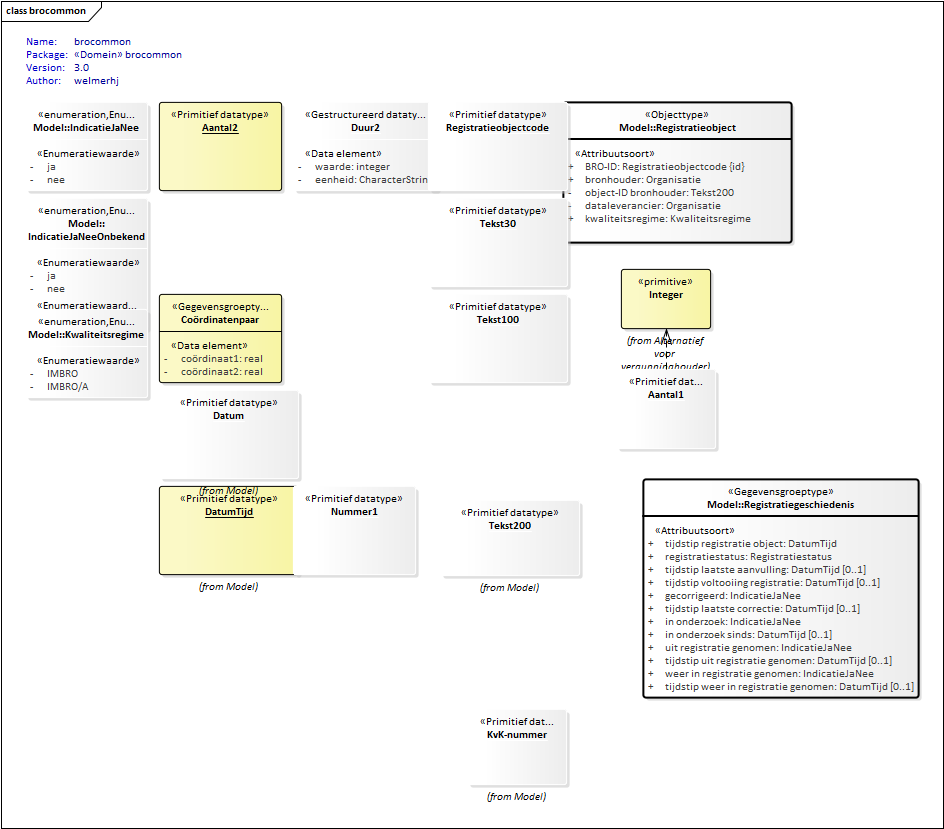
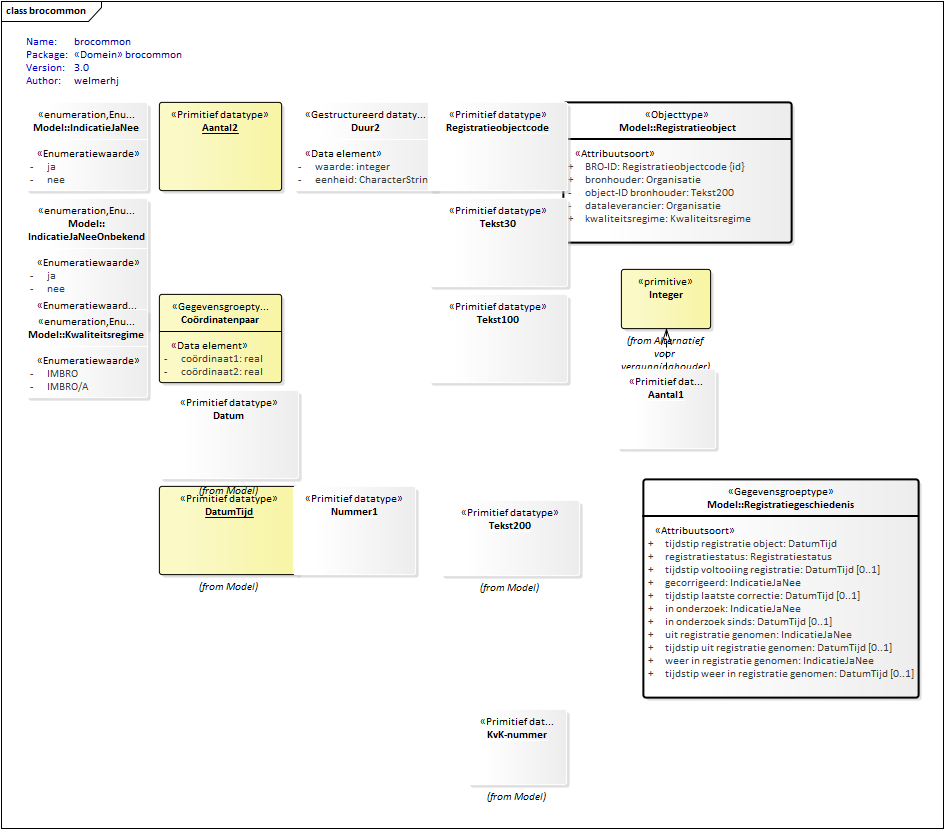
Conceptualmodel-GrondwatersamenstellingsonderzoekGAR-0.1-2-20190214-20190228-145426

Changed region(s): [[0.7066, 0.6634, 0.9831, 0.8444]]

diff --git a/data/GAR-cat.html b/data/GAR-cat.html
@@ -2,7 +2,7 @@
 <section id="cat" class="normative">
    <h2>Catalogus</h2>
    <p><b>Deze tekst is normatief.</b>
-      <!--Conceptualmodel-GrondwatersamenstellingsonderzoekGAR-0.1-2-20190214-20190228-130145 imvertor --></p>
+      <!--Conceptualmodel-GrondwatersamenstellingsonderzoekGAR-0.1-2-20190214-20190228-145426 imvertor --></p>
    <div class="imageinfo overview"><img src="data/Images/EAID_BBDCFEE2_BB5A_4b62_99F2_796C8F526D8F.png" usemap="#imagemap-EAID_BBDCFEE2_BB5A_4b62_99F2_796C8F526D8F"><map name="imagemap-EAID_BBDCFEE2_BB5A_4b62_99F2_796C8F526D8F">
          <area shape="rect" coords="296,963,467,835" alt="" href="#graph_EAID_FEC2B1DD_E5C2_4c90_8B71_B69ADC431AB0">
          <area shape="rect" coords="889,121,1021,58" alt="" href="#graph_EAID_F327F5A5_BFAE_4282_A78C_984A77CF8D47">
@@ -281,20 +281,6 @@
                </tr>
                <tr>
                   <td>- 
-                     <a class="link" href="#detail_attribute_Model_Registratiegeschiedenis_tijdstipLaatsteAanvulling">tijdstip laatste aanvulling</a>
-                     
-                  </td>
-                  <td>De datum en het tijdstip waarop de laatste aanvulling op de gegevens in de registratie
-                     ondergrond is doorgevoerd.
-                  </td>
-                  <td>
-                     <a class="link" href="#global_class_Model_DatumTijd">DatumTijd</a>
-                     
-                  </td>
-                  <td>0 .. 1</td>
-               </tr>
-               <tr>
-                  <td>- 
                      <a class="link" href="#detail_attribute_Model_Registratiegeschiedenis_tijdstipVoltooiingRegistratie">tijdstip voltooiing registratie</a>
                      
                   </td>
@@ -431,7 +417,7 @@
                      <a class="link" href="#detail_attribute_Model_GMWBuisverwijzing_gMWBROID">GMW-BRO-ID</a>
                      
                   </td>
-                  <td>De identificatie van de grondwatermonitoringput in de registratie ondergrond.</td>
+                  <td>De identificatie van de grondwatermonitoringput in de basisregistratie ondergrond.</td>
                   <td>
                      <a class="link" href="#global_class_Model_Registratieobjectcode">Registratieobjectcode</a>
                      
@@ -443,8 +429,8 @@
                      <a class="link" href="#detail_attribute_Model_GMWBuisverwijzing_buisnummer">buisnummer</a>
                      
                   </td>
-                  <td>Het nummer dat door of voor de bronhouder wordt gebruikt om de monitoringbuis in de
-                     grondwatermonitoringput te identificeren.
+                  <td>Het identificerende nummer van de monitoringbuis in de grondwatermonitoringput in
+                     de basisregistratie ondergrond.
                   </td>
                   <td>
                      <a class="link" href="#global_class_Model_Nummer3">Nummer3</a>
@@ -2396,63 +2382,6 @@
                </table>
                
             </section>
-            <a class="anchor" name="detail_attribute_Model_Registratiegeschiedenis_tijdstipLaatsteAanvulling"></a><section id="detail_attribute_Model_Registratiegeschiedenis_tijdstipLaatsteAanvulling" class="notoc"><strong>Attribuutsoort tijdstip laatste aanvulling  Registratiegeschiedenis</strong>
-               
-               <table>
-                  <tbody>
-                     <tr></tr>
-                     <tr>
-                        <th>Naam</th>
-                        <td>tijdstip laatste aanvulling</td>
-                     </tr>
-                     <tr>
-                        <th>Herkomst</th>
-                        <td>BRO</td>
-                     </tr>
-                     <tr>
-                        <th>Definitie</th>
-                        <td>De datum en het tijdstip waarop de laatste aanvulling op de gegevens in de registratie
-                           ondergrond is doorgevoerd.
-                        </td>
-                     </tr>
-                     <tr>
-                        <th>Herkomst definitie</th>
-                        <td>BRO</td>
-                     </tr>
-                     <tr>
-                        <th>Toelichting</th>
-                        <td>Het gegeven is alleen aanwezig wanneer na de registratie van een deelonderzoek ander
-                           deelonderzoek is vastgelegd.
-                        </td>
-                     </tr>
-                     <tr>
-                        <th>Mogelijk geen waarde</th>
-                        <td>Nee</td>
-                     </tr>
-                     <tr>
-                        <th>Indicatie materiële historie</th>
-                        <td>Nee</td>
-                     </tr>
-                     <tr>
-                        <th>Indicatie formele historie</th>
-                        <td>Nee</td>
-                     </tr>
-                     <tr>
-                        <th>Indicatie kardinaliteit</th>
-                        <td>0 .. 1</td>
-                     </tr>
-                     <tr>
-                        <th>Indicatie authentiek</th>
-                        <td>Overig</td>
-                     </tr>
-                     <tr>
-                        <th>Formaat</th>
-                        <td>DatumTijd</td>
-                     </tr>
-                  </tbody>
-               </table>
-               
-            </section>
             <a class="anchor" name="detail_attribute_Model_Registratiegeschiedenis_tijdstipVoltooiingRegistratie"></a><section id="detail_attribute_Model_Registratiegeschiedenis_tijdstipVoltooiingRegistratie" class="notoc"><strong>Attribuutsoort tijdstip voltooiing registratie  Registratiegeschiedenis</strong>
                
                <table>
@@ -3013,18 +2942,11 @@
                      </tr>
                      <tr>
                         <th>Definitie</th>
-                        <td>De identificatie van de grondwatermonitoringput in de registratie ondergrond.</td>
+                        <td>De identificatie van de grondwatermonitoringput in de basisregistratie ondergrond.</td>
                      </tr>
                      <tr>
                         <th>Herkomst definitie</th>
                         <td>BRO</td>
-                     </tr>
-                     <tr>
-                        <th>Toelichting</th>
-                        <td>In brondocumenten voor het aanleveren van meetpunten is het mogelijk om de putcode
-                           op te geven in plaats van het BRO-ID van de grondwatermonitoringput. Bij inname van
-                           de gegevens wordt dan het bijbehorende BRO-ID opgezocht en vastgelegd.
-                        </td>
                      </tr>
                      <tr>
                         <th>Mogelijk geen waarde</th>
@@ -3069,19 +2991,13 @@
                      </tr>
                      <tr>
                         <th>Definitie</th>
-                        <td>Het nummer dat door of voor de bronhouder wordt gebruikt om de monitoringbuis in de
-                           grondwatermonitoringput te identificeren.
+                        <td>Het identificerende nummer van de monitoringbuis in de grondwatermonitoringput in
+                           de basisregistratie ondergrond.
                         </td>
                      </tr>
                      <tr>
                         <th>Herkomst definitie</th>
                         <td>BRO</td>
-                     </tr>
-                     <tr>
-                        <th>Toelichting</th>
-                        <td>Dit nummer verwijst naar het buisnummer dat is geregistreerd bij de monitoringbuis
-                           van de grondwatermonitoringput in de basisregistratie ondergrond.
-                        </td>
                      </tr>
                      <tr>
                         <th>Mogelijk geen waarde</th>
@@ -5471,7 +5387,7 @@
 <section id="lis" class="normative">
    <h2>Inhoud van enumeraties en codelijsten</h2>
    <p><b>Deze tekst is normatief.</b>
-      <!--Conceptualmodel-GrondwatersamenstellingsonderzoekGAR-0.1-2-20190214-20190228-130145 imvertor --></p><a class="anchor" name="graph_EAID_104D1298_880E_4ae4_AB27_E1DF1AD62CDB"></a><a class="anchor" name="detail_class_Model_Registratiestatus"></a><section id="detail_class_Model_Registratiestatus">
+      <!--Conceptualmodel-GrondwatersamenstellingsonderzoekGAR-0.1-2-20190214-20190228-145426 imvertor --></p><a class="anchor" name="graph_EAID_104D1298_880E_4ae4_AB27_E1DF1AD62CDB"></a><a class="anchor" name="detail_class_Model_Registratiestatus"></a><section id="detail_class_Model_Registratiestatus">
       <h3>Codelijst details Registratiestatus</h3>
       
       <table>
@@ -5950,7 +5866,7 @@
                <td>✔</td>
                <td>✔</td>
                <td>Er is reden om dit gegeven als onjuist te beschouwen. De waarde kon niet geverifieerd
-                  worden op basis is van de gehanteerde beoordelingsprocedure.
+                  worden op basis van de gehanteerde beoordelingsprocedure.
                </td>
             </tr>
             <tr>
